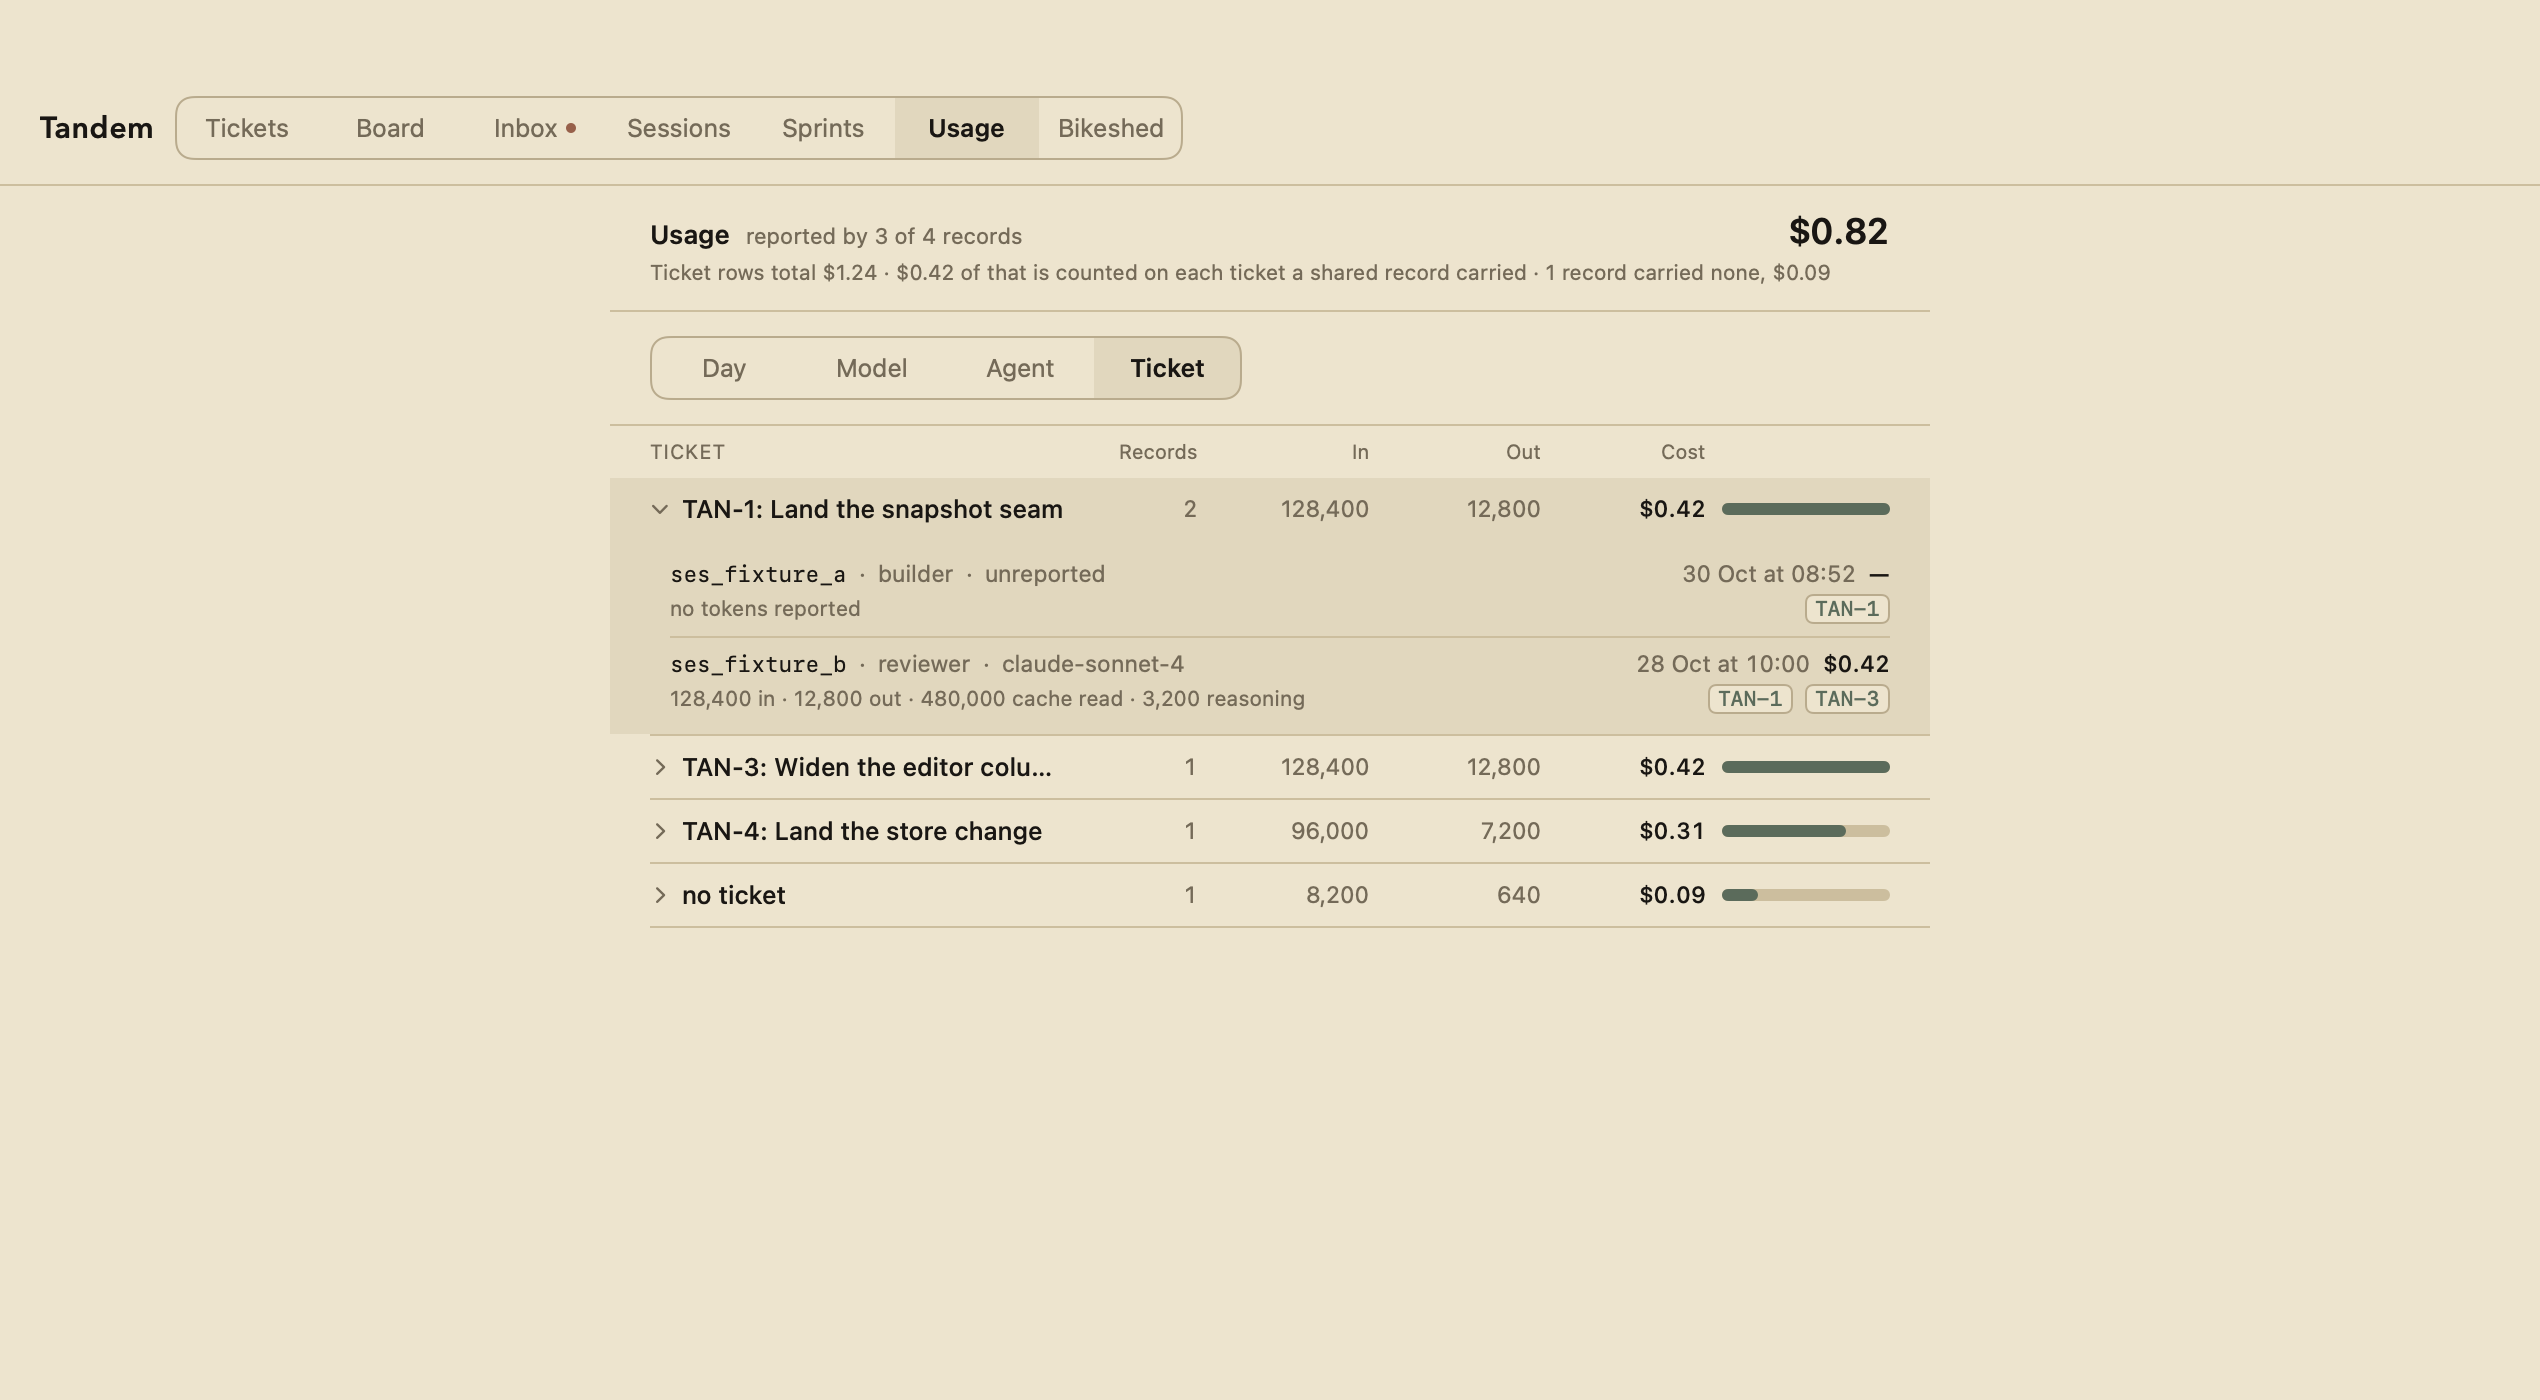
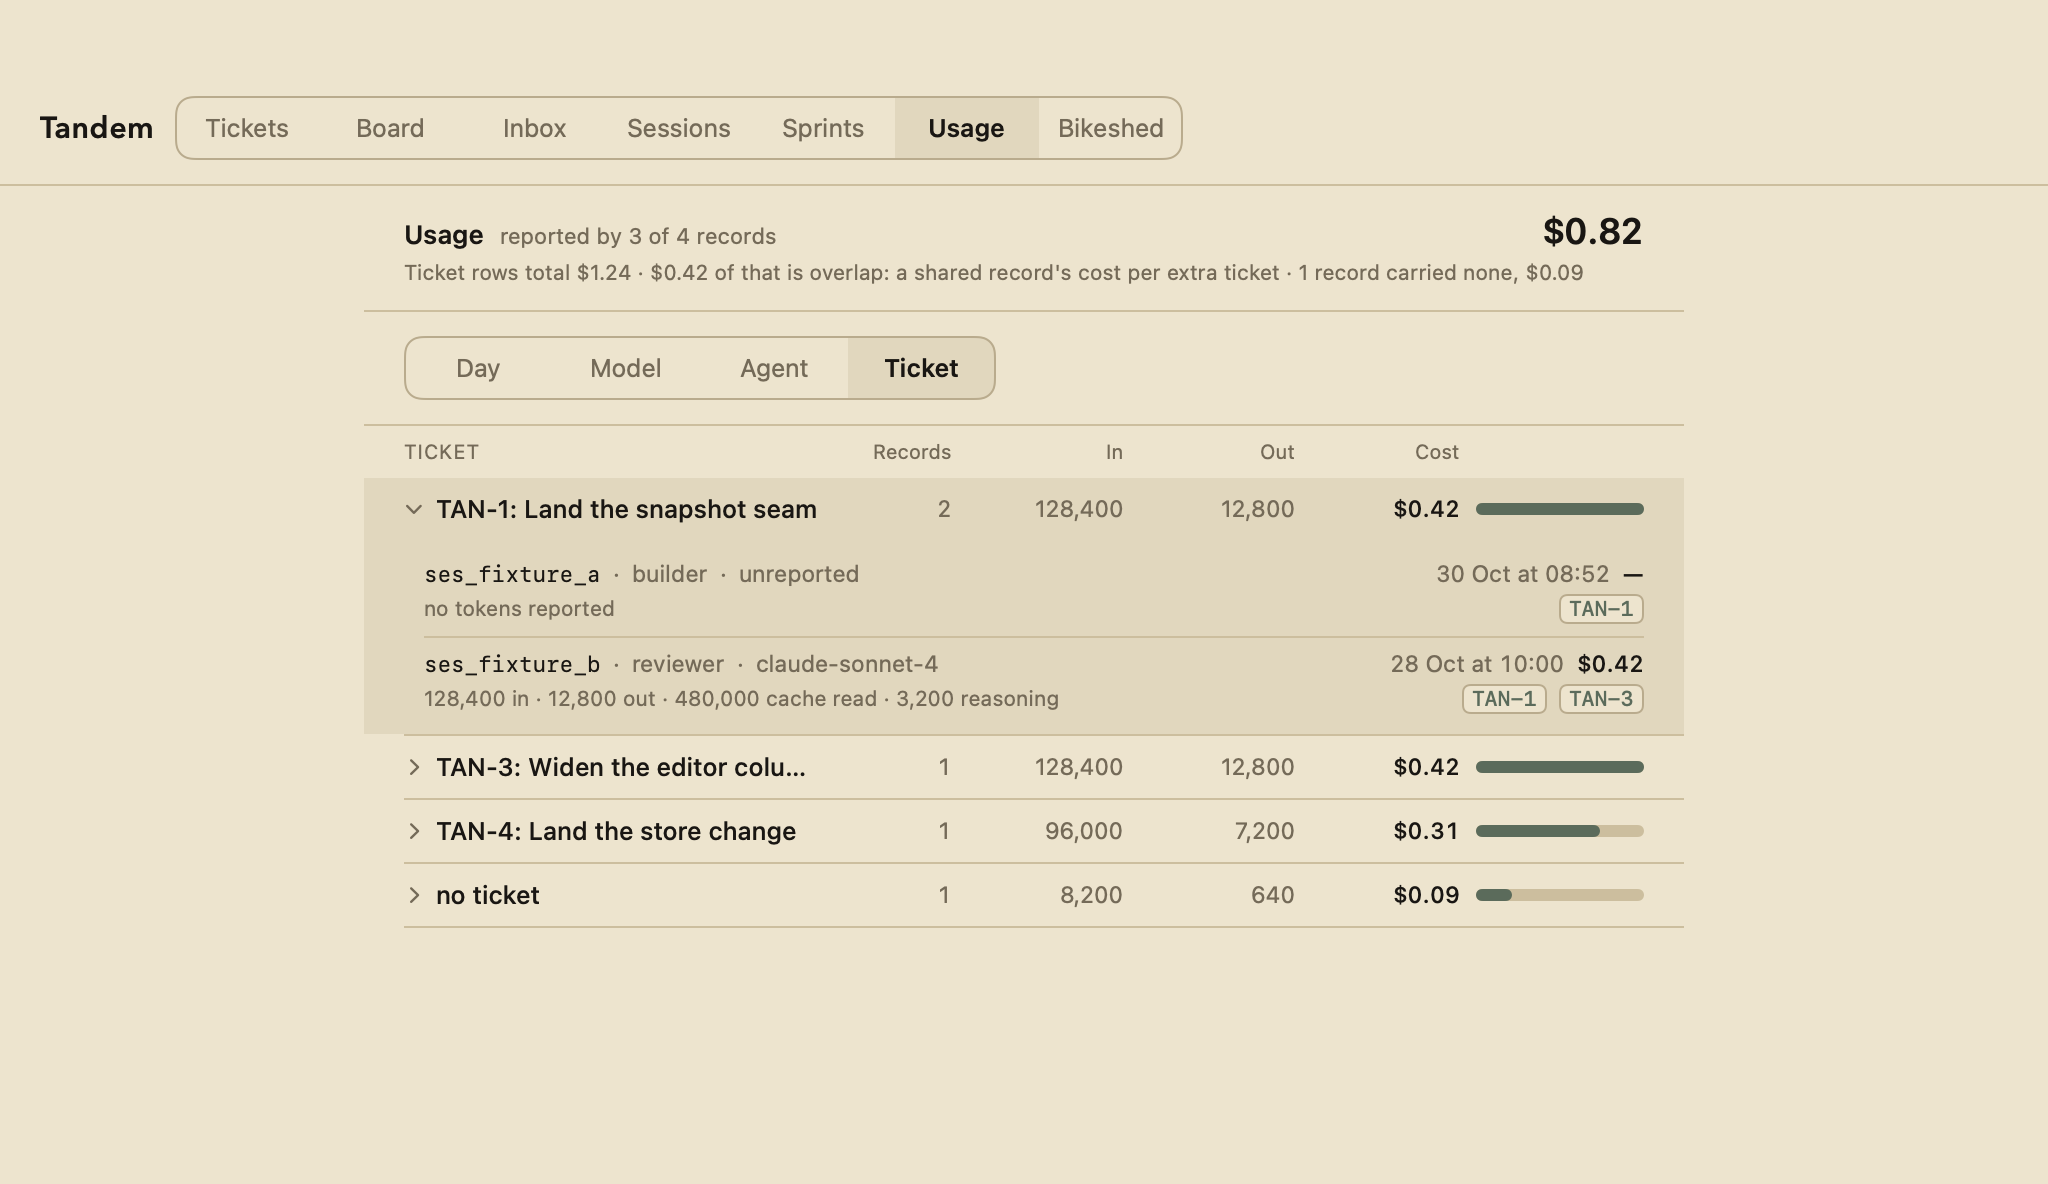
TAN-234: re-shoot the tab's picture, and keep absent absent in the header
The committed usage-tab.png still drew the overlap sentence 15ac52a
replaced; re-shot against Fixtures/screenshots/Home, so the header reads
the head's line. The ticketless clause drops the cost when none of those
records reported usage, as the rows already do, and the snapshot
fixture's comment says which record carries which ticket.

diff --git a/Sources/Tandem/UsageFace.swift b/Sources/Tandem/UsageFace.swift
@@ -137,8 +137,11 @@ struct UsageFaceView: View {
                 "\(UsageFormat.money(report.overlap)) of that is overlap: a shared record's cost per extra ticket")
         }
         if let loose = report.ticket.first(where: { $0.id == usageReportNoTicketID }) {
-            parts.append(
-                "\(UsageFormat.records(loose.records)) carried none, \(UsageFormat.money(loose.cost))")
+            // Absent stays absent, as on the rows: a ticketless record that
+            // reported nothing adds no cost to the clause.
+            parts.append(loose.reported == 0
+                ? "\(UsageFormat.records(loose.records)) carried none"
+                : "\(UsageFormat.records(loose.records)) carried none, \(UsageFormat.money(loose.cost))")
         }
         return parts.joined(separator: " · ")
     }

diff --git a/Tests/TandemCoreTests/SnapshotTests.swift b/Tests/TandemCoreTests/SnapshotTests.swift
@@ -130,9 +130,9 @@ struct SnapshotTests {
         }
 
         /// Three records: one still running, two ended with their outcomes. The
-        /// two ended ones carry usage (TAN-234): their cost, tokens and model,
-        /// one ticket each, and the middle record carries two, so the Usage
-        /// face has an overlap and the fleet record has no ticket at all.
+        /// two ended ones carry usage (TAN-234): their cost, tokens and model.
+        /// The middle record carries two tickets and the fleet record carries
+        /// none, so the Usage face has an overlap and a ticketless row.
         private static func seedSessions(at home: URL) throws {
             let ids = try Store(directory: home).list(.all).value.map(\.id)
             let records = [
